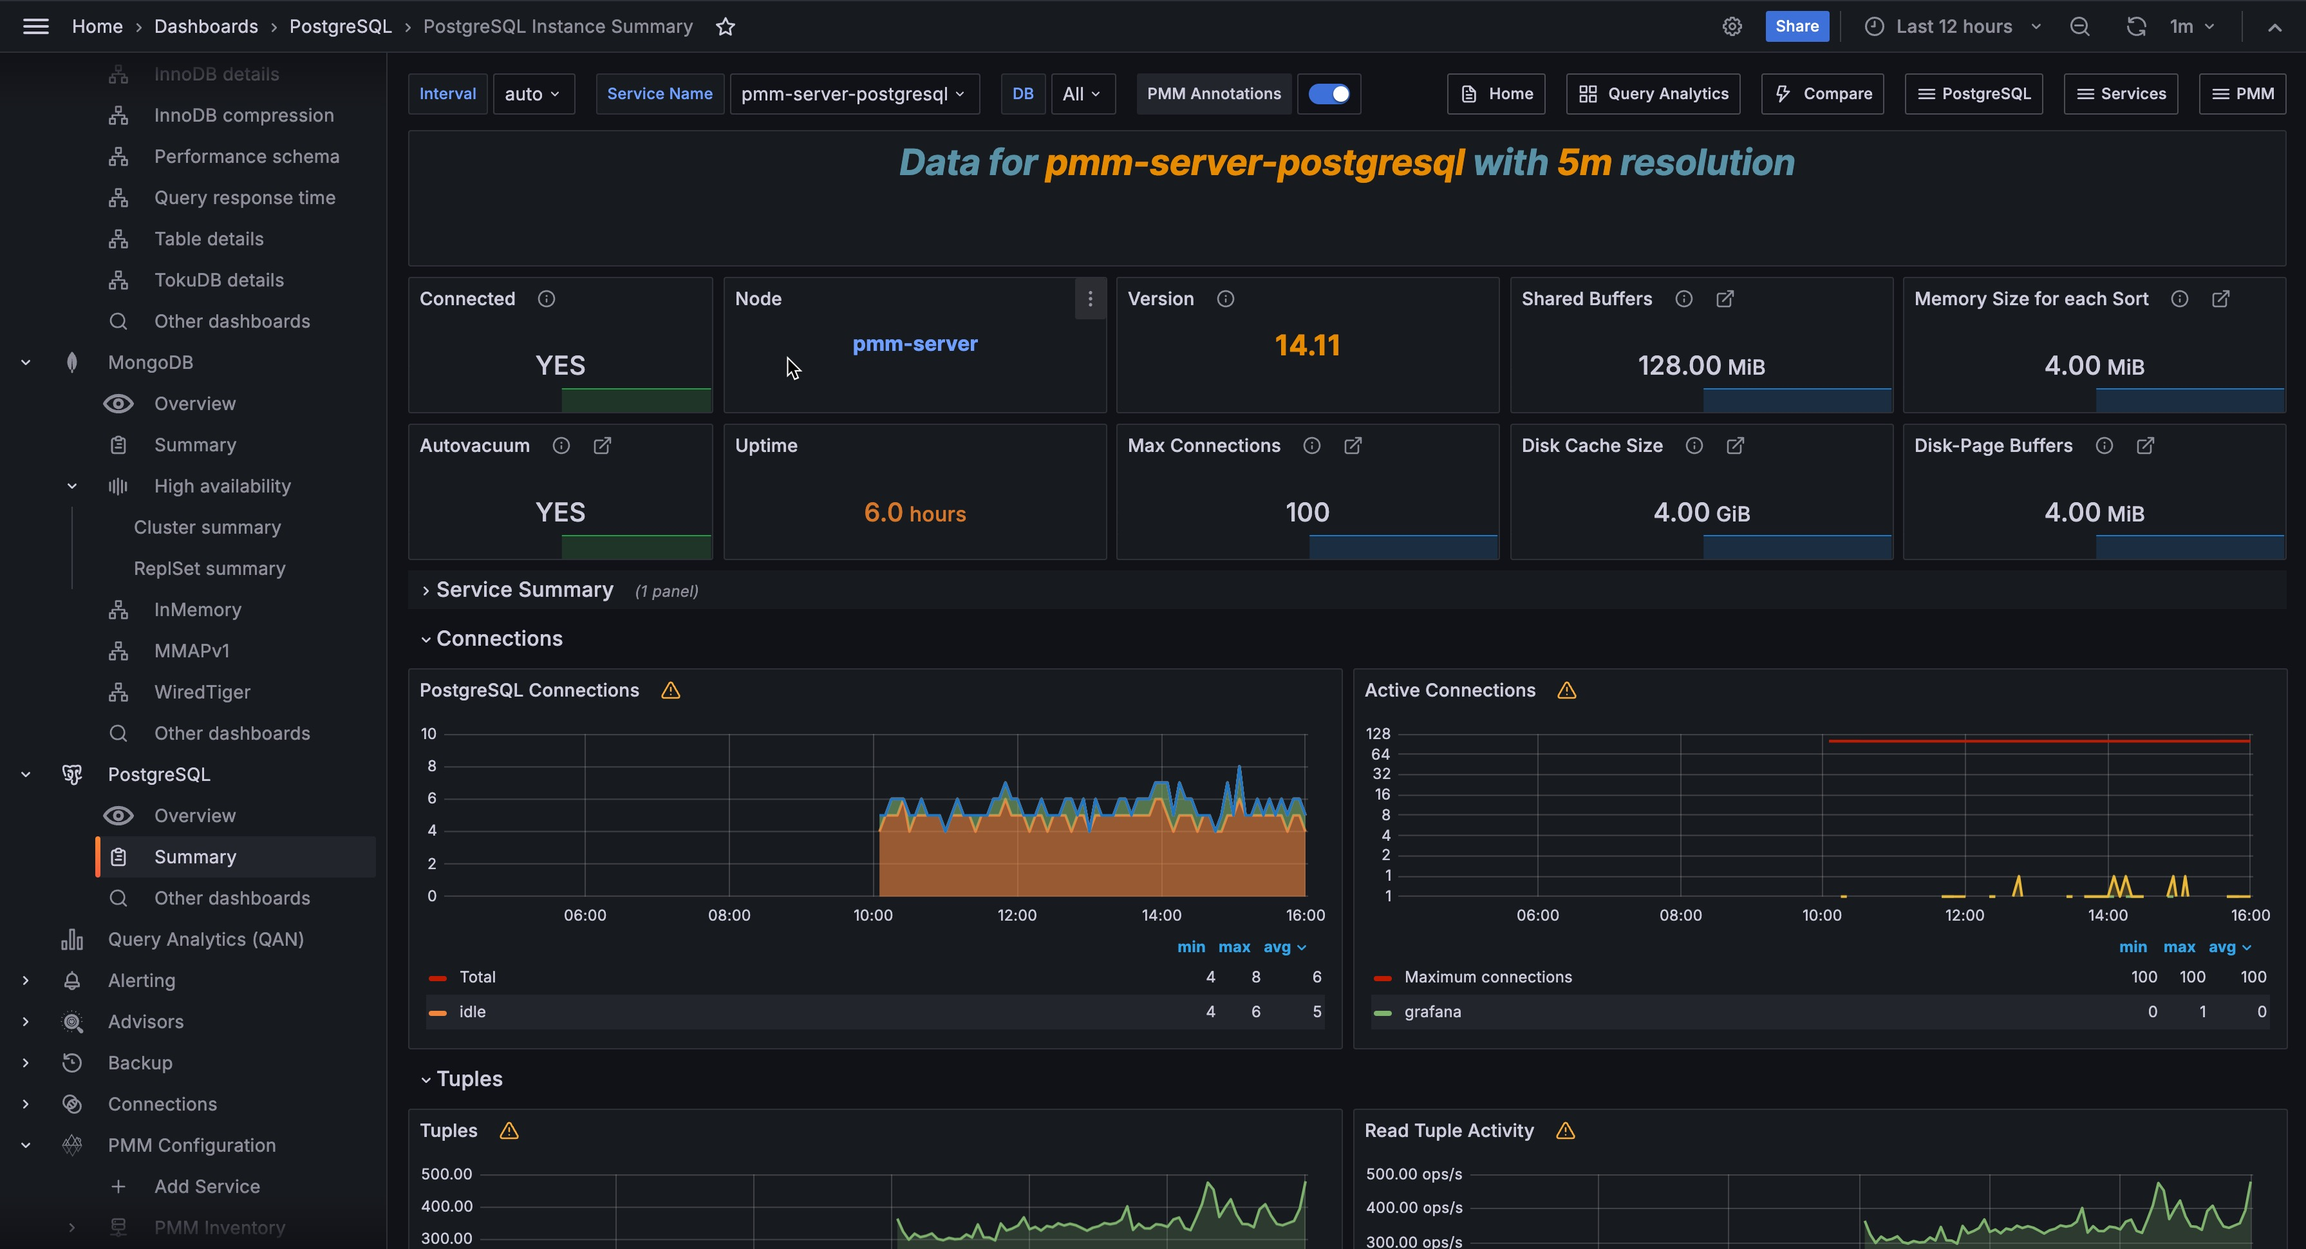
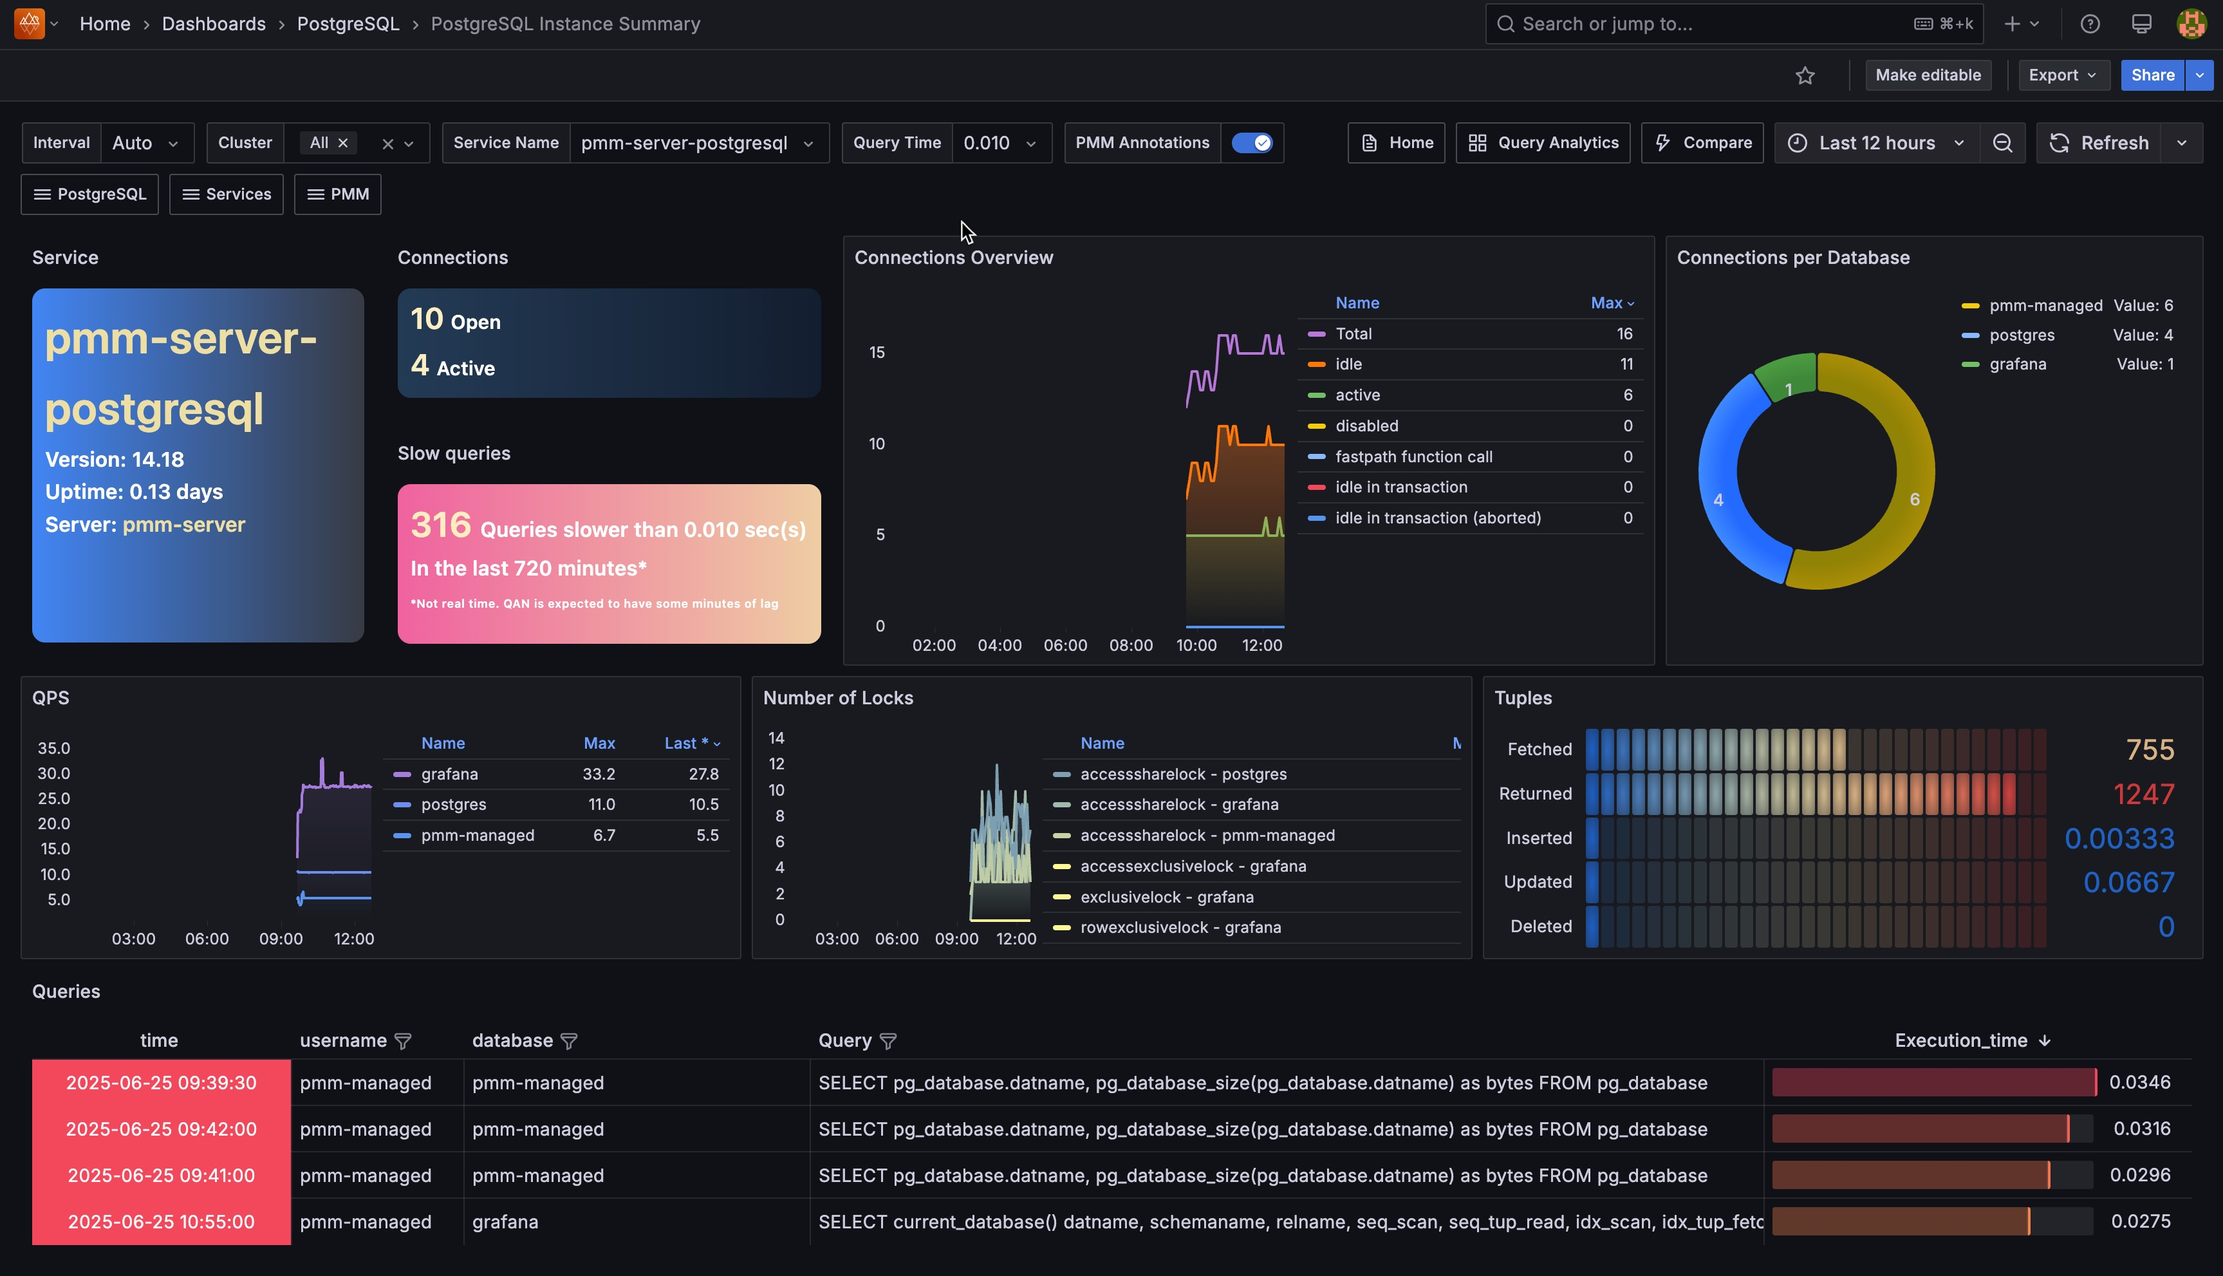
wording

diff --git a/documentation/docs/reference/dashboards/dashboard-postgresql-instances-overview.md b/documentation/docs/reference/dashboards/dashboard-postgresql-instances-overview.md
@@ -1,122 +1,29 @@
 # PostgreSQL Instances Overview
 
+This dashboard shows a high-level overview of all your PostgreSQL instances to help you quickly identify performance trends across your entire database infrastructure.
+
+Start here when you need to compare performance across all your databases, identify slow queries affecting multiple services, or get a bird's-eye view of your PostgreSQL infrastructure health.
+
 ![!image](../../images/PMM_PostgreSQL_Instances_Overview.jpg)
 
-## Connected
+## Databases Monitored
+Shows a summary of your PostgreSQL monitoring coverage including the number of clusters, total nodes, and nodes without cluster configuration. The **Databases monitored** link takes you to the full inventory of monitored services for detailed management.
 
-Reports whether PMM Server can connect to the PostgreSQL instance.
+## Executed Queries  
+Shows query execution trends for your top 5 busiest PostgreSQL services over time. Sudden spikes may indicate performance issues or unexpected workload changes that need investigation.
 
-## Version
+## Slow Queries
+Shows the total count of queries that exceeded your configured slow query threshold across all monitored services over the selected time range. 
 
-The version of the PostgreSQL instance.
+Focus on reducing this number across your infrastructure. High slow query counts indicate widespread performance problems that need systematic optimization.
 
-## Shared Buffers
+## Transactions per Second
+Shows the current transaction rate across all your PostgreSQL services combined. Use this as a high-level health indicator. Dramatic changes in TPS may indicate infrastructure issues, application problems, or significant workload shifts.
 
-Defines the amount of memory the database server uses for shared memory buffers. Default is `128MB`. Guidance on tuning is `25%` of RAM, but generally doesn’t exceed `40%`.
+## Execution Time
+Shows average query execution time trends for your PostgreSQL services over time. 
 
-## Disk-Page Buffers
+Watch for services with increasing execution times. Rising trends indicate performance degradation that needs investigation and optimization.
 
-The setting `wal_buffers` defines how much memory is used for caching the write-ahead log entries. Generally this value is small (`3%` of `shared_buffers` value), but it may need to be modified for heavily loaded servers.
-
-## Memory Size for each Sort
-
-The parameter `work_mem` defines the amount of memory assigned for internal sort operations and hash tables before writing to temporary disk files. The default is `4MB`.
-
-## Disk Cache Size
-
-PostgreSQL’s `effective_cache_size` variable tunes how much RAM you expect to be available for disk caching. Generally adding Linux free+cached will give you a good idea. This value is used by the query planner whether plans will fit in memory, and when defined too low, can lead to some plans rejecting certain indexes.
-
-## Autovacuum
-
-Whether autovacuum process is enabled or not. Generally the solution is to vacuum more often, not less.
-
-## PostgreSQL Connections
-
-Max Connections
-:   The maximum number of client connections allowed. Change this value with care as there are some memory resources that are allocated on a per-client basis, so setting `max_connections` higher will generally increase overall PostgreSQL memory usage.
-
-Connections
-:   The number of connection attempts (successful or not) to the PostgreSQL server.
-
-Active Connections
-:   The number of open connections to the PostgreSQL server.
-
-## PostgreSQL Tuples
-
-Tuples
-:   The total number of rows processed by PostgreSQL server: fetched, returned, inserted, updated, and deleted.
-
-Read Tuple Activity
-:   The number of rows read from the database: as returned so fetched ones.
-
-Tuples Changed per 5 min
-:   The number of rows changed in the last 5 minutes: inserted, updated, and deleted ones.
-
-## PostgreSQL Transactions
-
-Transactions
-:   The total number of transactions that have been either been committed or rolled back.
-
-Duration of Transactions
-:   Maximum duration in seconds any active transaction has been running.
-
-## Temp Files
-
-Number of Temp Files
-:   The number of temporary files created by queries.
-
-Size of Temp files
-:   The total amount of data written to temporary files by queries in bytes.
-
-!!! note alert alert-primary ""
-    All temporary files are taken into account by these two gauges, regardless of why the temporary file was created (e.g., sorting or hashing), and regardless of the `log_temp_files` setting.
-
-## Conflicts and Locks
-
-Conflicts/Deadlocks
-:   The number of queries canceled due to conflicts with recovery in the database (due to dropped tablespaces, lock timeouts, old snapshots, pinned buffers, or deadlocks).
-
-Number of Locks
-:   The number of deadlocks detected by PostgreSQL.
-
-## Buffers and Blocks Operations
-
-Operations with Blocks
-:   The time spent reading and writing data file blocks by back ends, in milliseconds.
-
-!!! hint alert alert-success "Tip"
-    Capturing read and write time statistics is possible only if `track_io_timing` setting is enabled. This can be done either in configuration file or with the following query executed on the running system:
-
-```sql
-ALTER SYSTEM SET track_io_timing=ON;
-SELECT pg_reload_conf();
-```
-
-Buffers
-:   The number of buffers allocated by PostgreSQL.
-
-## Canceled Queries
-
-The number of queries that have been canceled due to dropped tablespaces, lock timeouts, old snapshots, pinned buffers, and deadlocks.
-
-!!! note alert alert-primary ""
-    Data shown by this gauge are based on the `pg_stat_database_conflicts` view.
-
-## Cache Hit Ratio
-
-The number of times disk blocks were found already in the buffer cache, so that a read was not necessary.
-
-!!! note alert alert-primary ""
-    This only includes hits in the PostgreSQL buffer cache, not the operating system’s file system cache.
-
-## Checkpoint Stats
-
-The total amount of time that has been spent in the portion of checkpoint processing where files are either written or synchronized to disk, in milliseconds.
-
-## PostgreSQL Settings
-
-The list of all settings of the PostgreSQL server.
-
-## System Summary
-
-This section contains the following system parameters of the PostgreSQL server: CPU Usage, CPU Saturation and Max Core Usage, Disk I/O Activity, and Network Traffic.
+## Queries
+Shows a detailed table of recent queries across all your PostgreSQL services with execution times, sorted by performance. Focus optimization efforts on queries with the highest execution times. This cross-service view helps you identify the most impactful slow queries across your entire infrastructure.

diff --git a/documentation/docs/reference/dashboards/dashboard-postgresql-instance-summary.md b/documentation/docs/reference/dashboards/dashboard-postgresql-instance-summary.md
@@ -1,23 +1,38 @@
 # PostgreSQL Instance Summary
 
+This dashboard shows a detailed overview of a single PostgreSQL instance, monitor its performance metrics, and dive deep into query activity.
+
+This is essential for database administrators who need to troubleshoot specific PostgreSQL services, analyze query performance, investigate connection issues, or monitor database activity patterns. 
+
+Start here when you need to focus on one specific PostgreSQL instance, investigate slow queries, check connection usage, or analyze database-specific performance trends.
+
 ![!image](../../images/PMM_PostgreSQL_Instance_Summary.jpg)
 
-## Number of Temp Files
+## Service
+Shows essential information about your PostgreSQL instance including service name, version, uptime in days, and the server hostname. The server name is clickable to navigate to detailed node monitoring. This gives you quick access to basic instance identification and health information.
 
-Cumulative number of temporary files created by queries in this database since service start. All temporary files are counted, regardless of why the temporary file was created (e.g., sorting or hashing), and regardless of the `log_temp_files` setting.
+## Connections
+Shows current connection counts with total open connections and currently active connections highlighted. Monitor this to ensure you're not approaching connection limits. High connection counts may indicate connection pooling issues or application problems.
 
-## Size of Temp Files
+## Slow Queries
+Shows the count of queries that exceeded your configured slow query threshold over the selected time range. Focus on reducing this number, considering that high slow query counts indicate performance problems that need query optimization or indexing improvements.
 
-Cumulative amount of data written to temporary files by queries in this database since service start. All temporary files are counted, regardless of why the temporary file was created, and regardless of the `log_temp_files` setting.
+## Connections Overview
+Shows connection trends over time broken down by connection state (active, idle, etc.) with a total connections line. Watch for spikes in total connections or unusual patterns. Sudden increases may indicate application issues or connection leaks.
 
-## Temp Files Activity
+## Connections per Database
+Shows the distribution of connections across different databases in your PostgreSQL instance as a donut chart. 
 
-Number of temporary files created by queries in this database. All temporary files are counted, regardless of why the temporary file was created (e.g., sorting or hashing), and regardless of the `log_temp_files` setting.
+Use this to identify which databases consume the most connections. Uneven distribution may indicate workload imbalances or specific database issues.
 
-## Temp Files Utilization
+## QPS (Queries Per Second)
+Shows the top 5 databases by transaction commit rate, indicating query throughput. Monitor this to understand your workload patterns. Consistent QPS indicates steady performance while spikes may require investigation.
 
-Total amount of data written to temporary files by queries in this database. All temporary files are counted, regardless of why the temporary file was created, and regardless of the `log_temp_files` setting.
+## Number of Locks
+Shows current lock counts by lock type and database over time. Watch for lock spikes or sustained high lock counts as these can indicate lock contention issues, long-running transactions, or deadlock situations that need attention.
 
-## Canceled Queries
+## Tuples
+Shows tuple operation rates (fetched, returned, inserted, updated, deleted) as horizontal bar gauges. Use this to understand your database activity patterns. High fetch-to-return ratios may indicate inefficient queries reading more data than needed.
 
-Based on `pg_stat_database_conflicts` view
+## Queries
+Shows a detailed table of recent queries with execution times, sorted by performance. Focus optimization efforts on queries with the highest execution times. This table helps you identify specific slow queries that need indexing or rewriting for better performance.

diff --git a/documentation/docs/reference/dashboards/dashboard-processes-details.md b/documentation/docs/reference/dashboards/dashboard-processes-details.md
@@ -2,7 +2,7 @@
 
 ![!image](../../images/PMM_Processes_Details.jpg)
 
-The Processes Details dashboard displays Linux process information - PIDs, Threads, and Processes.  The dashboard shows how many processes/threads are either in the kernel run queue (runnable state) or in the blocked queue (waiting for I/O). When the number of process in the runnable state is constantly higher than the number of CPU cores available, the load is CPU bound. When the number of process blocked waiting for I/O is large, the load is disk bound. The running average of the sum of these two quantities is the basis of the `loadavg` metric.
+This dashboard displays Linux process information - PIDs, Threads, and Processes.  The dashboard shows how many processes/threads are either in the kernel run queue (runnable state) or in the blocked queue (waiting for I/O). When the number of process in the runnable state is constantly higher than the number of CPU cores available, the load is CPU bound. When the number of process blocked waiting for I/O is large, the load is disk bound. The running average of the sum of these two quantities is the basis of the `loadavg` metric.
 
 The dashboard consists of two parts: the first section describes metrics for all hosts, and the second part provides charts for each host.
 

diff --git a/documentation/docs/reference/dashboards/dashboard-postresql-replication.md b/documentation/docs/reference/dashboards/dashboard-postresql-replication.md
@@ -1,8 +1,8 @@
 # PostgreSQL Replication Overview 
 
-Use this dashboard to monitor PostgreSQL streaming replication health, track lag between primary and replica nodes, and identify replication issues. 
+This dashboard monitors PostgreSQL streaming replication health, tracks lag between primary and replica nodes, and identifies replication issues. 
 
-This is essential for database administrators managing high-availability PostgreSQL setups who need to verify replication status, troubleshoot lag problems, or investigate failover readiness. 
+This information  is essential for database administrators managing high-availability PostgreSQL setups who need to verify replication status, troubleshoot lag problems, or investigate failover readiness. 
 
 Start here when you need to check if your replicas are keeping up with the primary, diagnose replication conflicts, or verify your disaster recovery setup is working properly.
 

diff --git a/documentation/docs/reference/dashboards/dashboard-postresql-checkpoints-buffers-wal-usage.md b/documentation/docs/reference/dashboards/dashboard-postresql-checkpoints-buffers-wal-usage.md
@@ -1,8 +1,8 @@
 # PostgreSQL Checkpoints, Buffers and WAL Usage
 
-Monitors PostgreSQL's checkpoint behavior, buffer management, and Write-Ahead Log (WAL) activity to help you identify I/O bottlenecks and optimize your database performance. 
+This dashboard monitors PostgreSQL's checkpoint behavior, buffer management, and Write-Ahead Log (WAL) activity to help you identify I/O bottlenecks and optimize your database performance. 
 
-Use this dashboard to correlate checkpoint activity with disk I/O patterns and understand their impact on your storage subsystem.
+Use this to correlate checkpoint activity with disk I/O patterns and understand their impact on your storage subsystem.
 
 ![!image](../../images/PMM_PostgreSQL_Checkpoints_Buffers_WAL.png)
 

diff --git a/documentation/docs/reference/dashboards/dashboard-postresql-patroni-details.md b/documentation/docs/reference/dashboards/dashboard-postresql-patroni-details.md
@@ -2,7 +2,7 @@
 
 # PostreSQL Patroni Details 
 
-The **Patroni Details** dashboard provides comprehensive monitoring for PostgreSQL clusters managed by Patroni, focusing on cluster member status, replication health, and WAL (Write-Ahead Log) synchronization. 
+This ashboard provides comprehensive monitoring for PostgreSQL clusters managed by Patroni, focusing on cluster member status, replication health, and WAL (Write-Ahead Log) synchronization. 
 
 Use this dashboard when you need to monitor high-availability PostgreSQL clusters, troubleshoot replication issues, or verify cluster member roles and status.
 

diff --git a/documentation/docs/reference/dashboards/dashboard-postgresql-instances-overview-extended.md b/documentation/docs/reference/dashboards/dashboard-postgresql-instances-overview-extended.md
@@ -1,7 +1,6 @@
 # PostgreSQL Instances Overview Extended
 
-
-Use this dashboard to get a comprehensive overview of all your PostgreSQL instances, compare performance across services, and identify which databases need attention. 
+This dasgboard shows an overview of all your PostgreSQL instances, compare performance across services, and identify which databases need attention. 
 
 This is essential for database administrators managing multiple PostgreSQL services who need to quickly spot performance issues, resource bottlenecks, or configuration problems across their entire infrastructure. 
 

diff --git a/documentation/docs/reference/dashboards/dashboard-postresql-topqueries.md b/documentation/docs/reference/dashboards/dashboard-postresql-topqueries.md
@@ -1,6 +1,6 @@
 # PostgreSQL Top Queries
 
-Analyzes query performance across your PostgreSQL instances, helping you identify and optimize slow queries that impact database performance.
+This dashboard analyzes query performance across your PostgreSQL instances, helping you identify and optimize slow queries that impact database performance.
 
 ![!image](../../images/PMM_PostgreSQL_Top_Queries.png)
 
